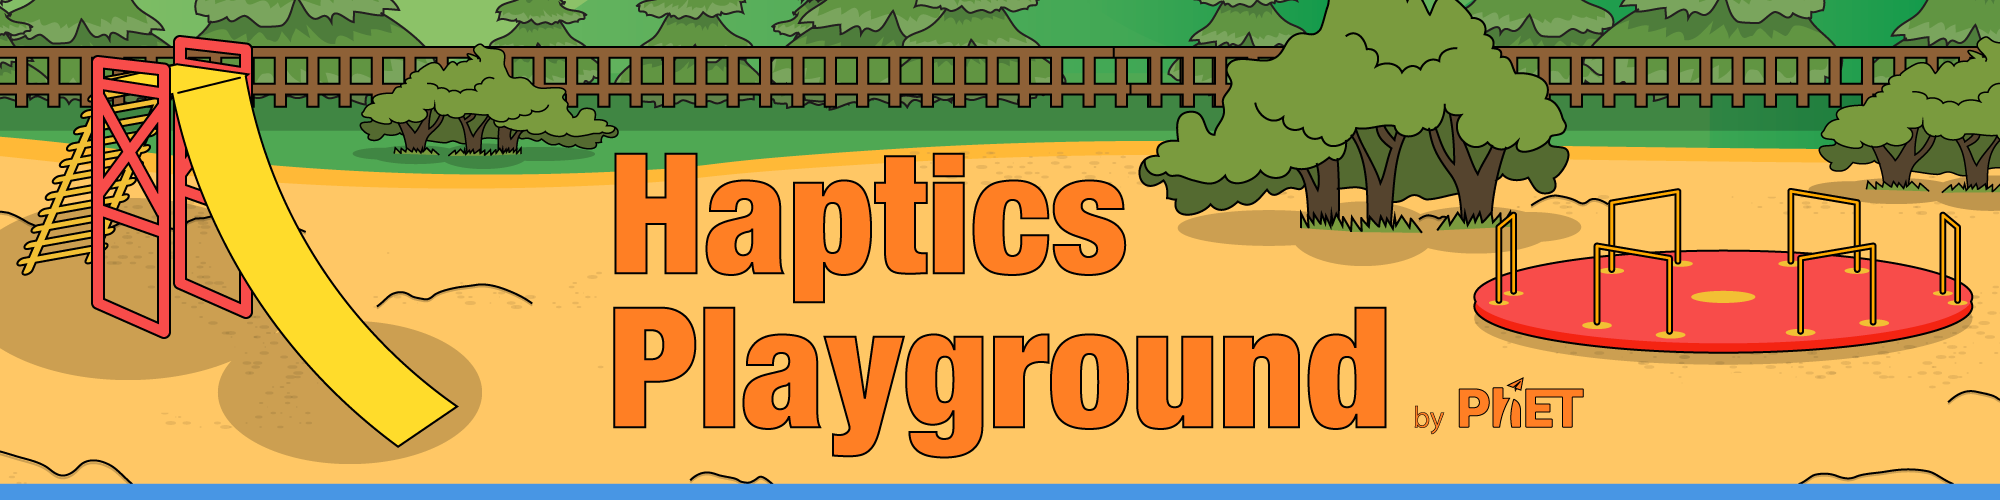
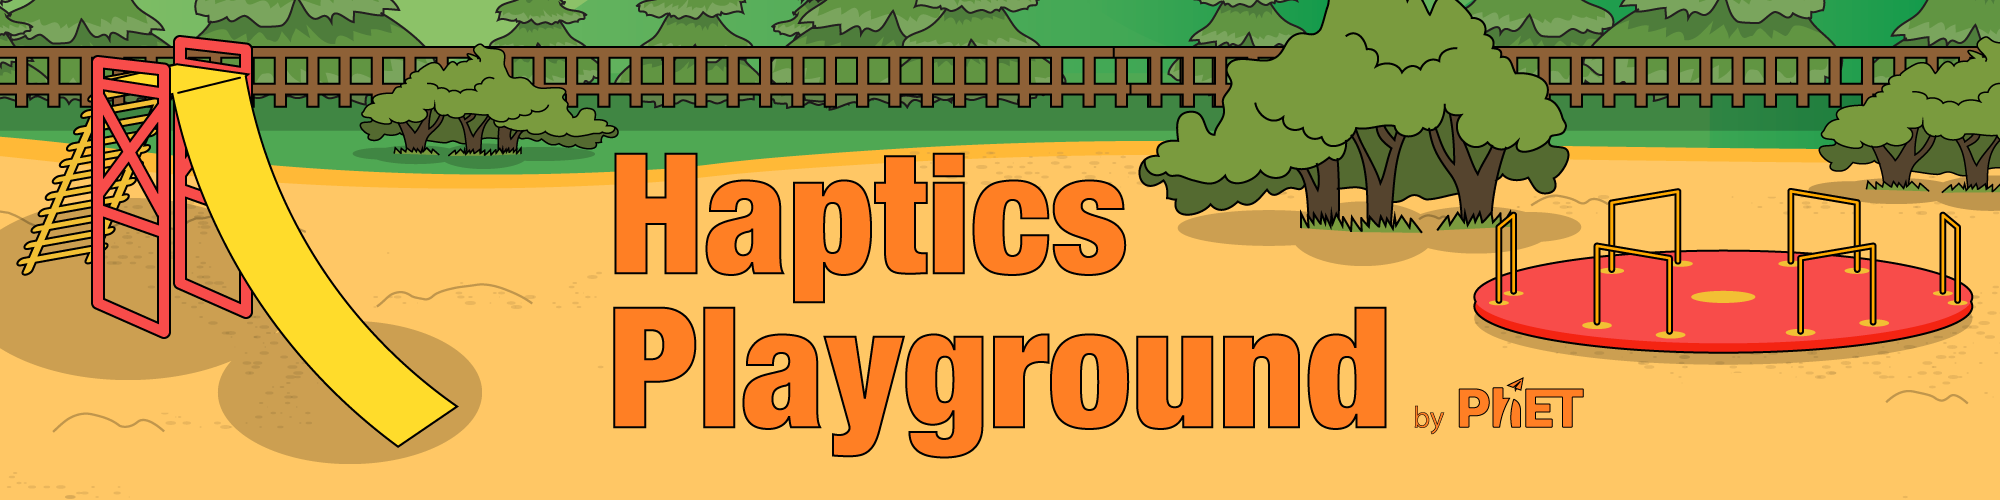
updated artwork, tweaked header a little

diff --git a/www/css/haptics-playground.css b/www/css/haptics-playground.css
@@ -25,13 +25,11 @@ body {
 
 #header {
   text-align: center;
-  background-color: #E4E4E4;
 }
 
 #image-container {
   min-width: 20px;
   min-height: 20px;
-  padding: 1px;
   display: inline-block;
 }
 
@@ -50,9 +48,9 @@ body {
 }
 
 #image-container::after {
-  -webkit-box-shadow: inset 0 0 10px 10px #cccccc;
-  -moz-box-shadow: inset 0 0 10px 10px #cccccc;
-  box-shadow: inset 0 0 10px 10px #cccccc;
+  -webkit-box-shadow: inset 0 0 10px 10px #E4E4E4;
+  -moz-box-shadow: inset 0 0 10px 10px #E4E4E4;
+  box-shadow: inset 0 0 10px 10px #E4E4E4;
   bottom: 0;
   content: "";
   display: block;
